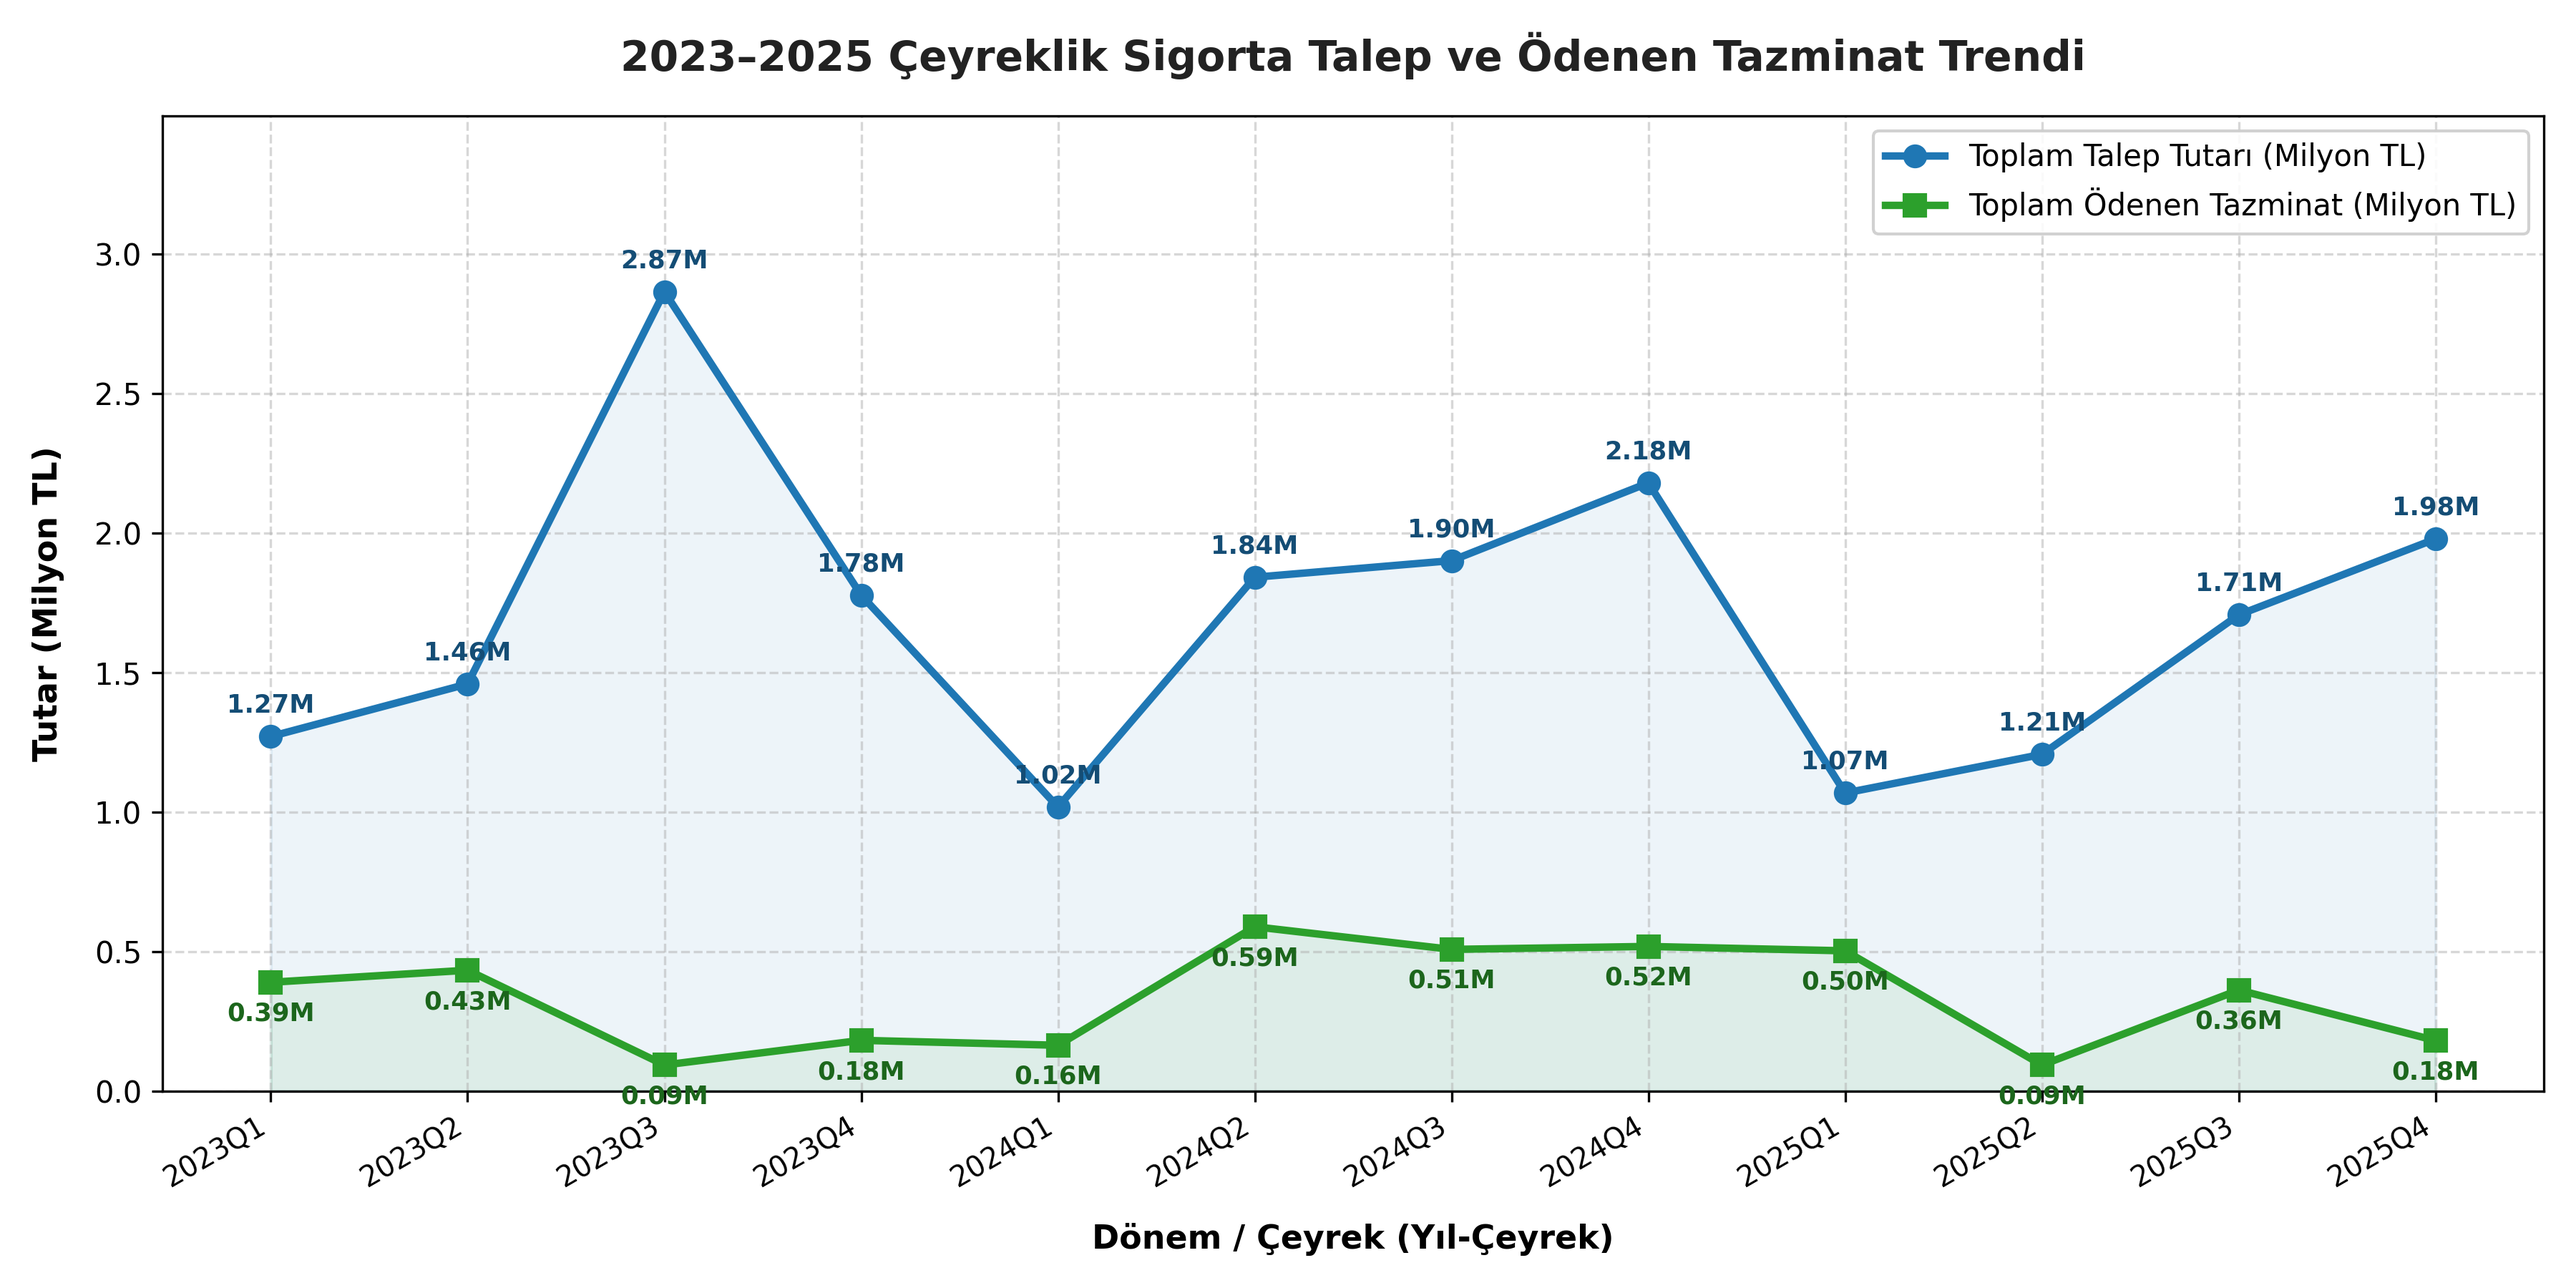
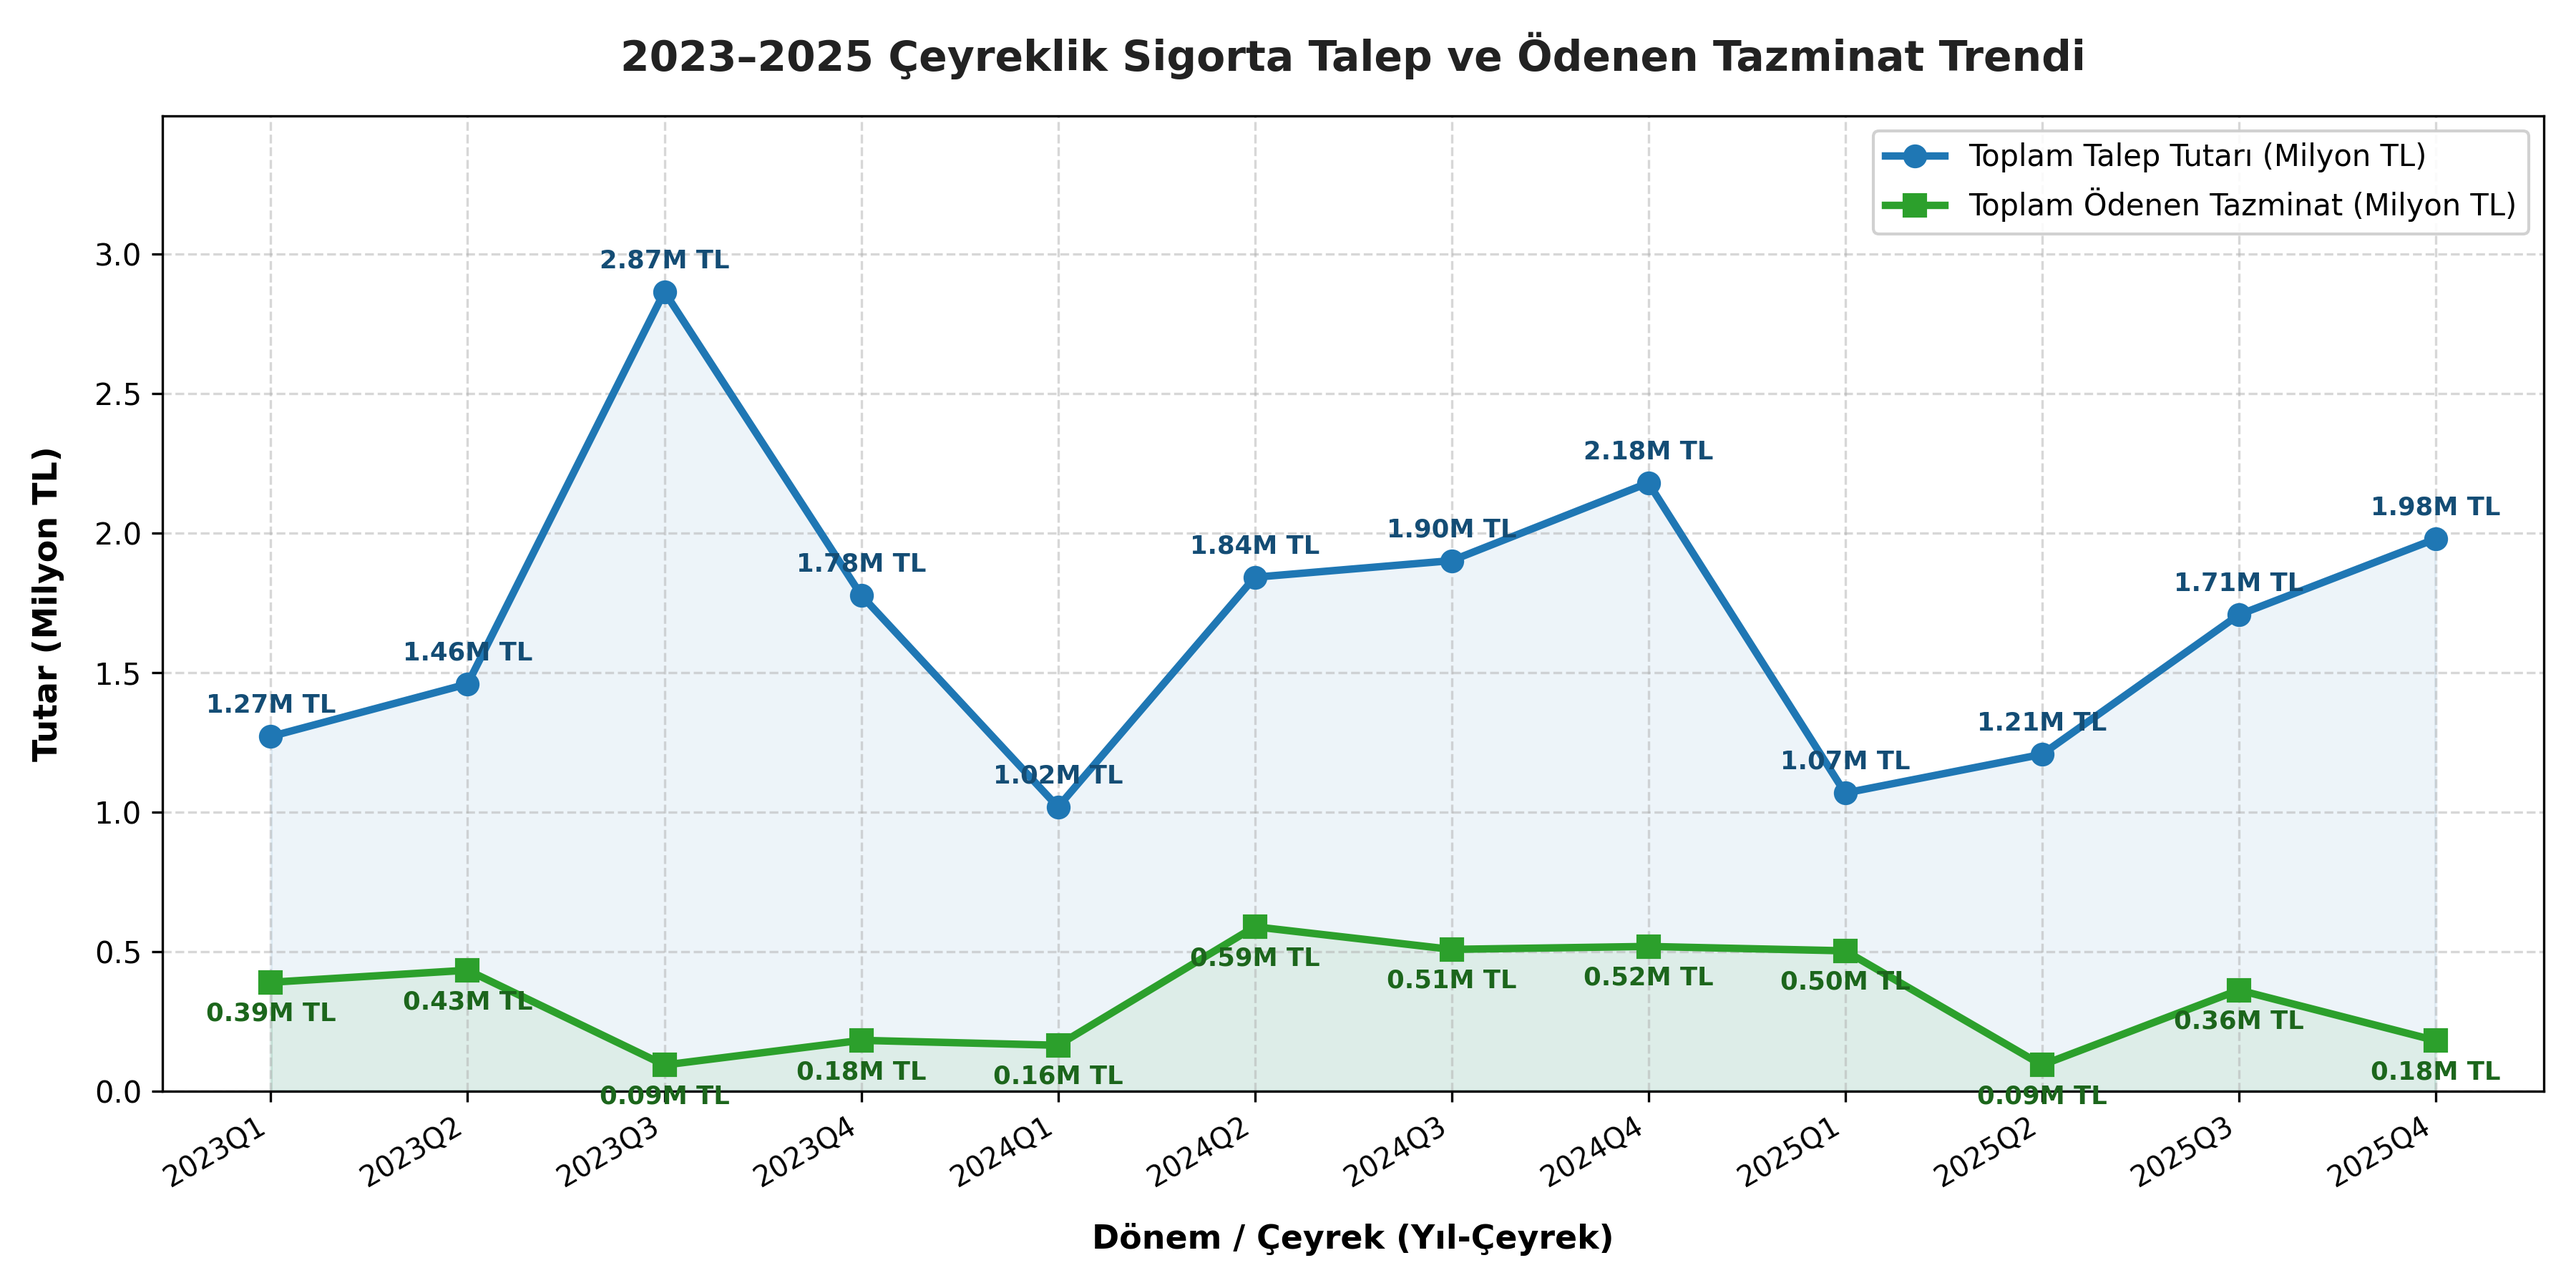
fix(fe): ceyreklik trend veri etiketlerine TL birimi eklendi (Fixes #24)

diff --git a/src/gorsellestir.py b/src/gorsellestir.py
@@ -61,12 +61,12 @@ def gorsellestir():
     ax.fill_between(x_indeks, trend_df["talep_milyon"], alpha=0.08, color="#1f77b4")
     ax.fill_between(x_indeks, trend_df["odeme_milyon"], alpha=0.08, color="#2ca02c")
 
-    # Veri etiketleri
+    # Veri etiketleri (TL birimiyle)
     for i, val in enumerate(trend_df["talep_milyon"]):
-        ax.annotate(f"{val:.2f}M", (i, val), textcoords="offset points",
+        ax.annotate(f"{val:.2f}M TL", (i, val), textcoords="offset points",
                     xytext=(0, 8), ha="center", fontsize=8.5, fontweight="bold", color="#144d75")
     for i, val in enumerate(trend_df["odeme_milyon"]):
-        ax.annotate(f"{val:.2f}M", (i, val), textcoords="offset points",
+        ax.annotate(f"{val:.2f}M TL", (i, val), textcoords="offset points",
                     xytext=(0, -13), ha="center", fontsize=8.5, fontweight="bold", color="#1c661c")
 
     ax.set_title("2023–2025 Çeyreklik Sigorta Talep ve Ödenen Tazminat Trendi",
